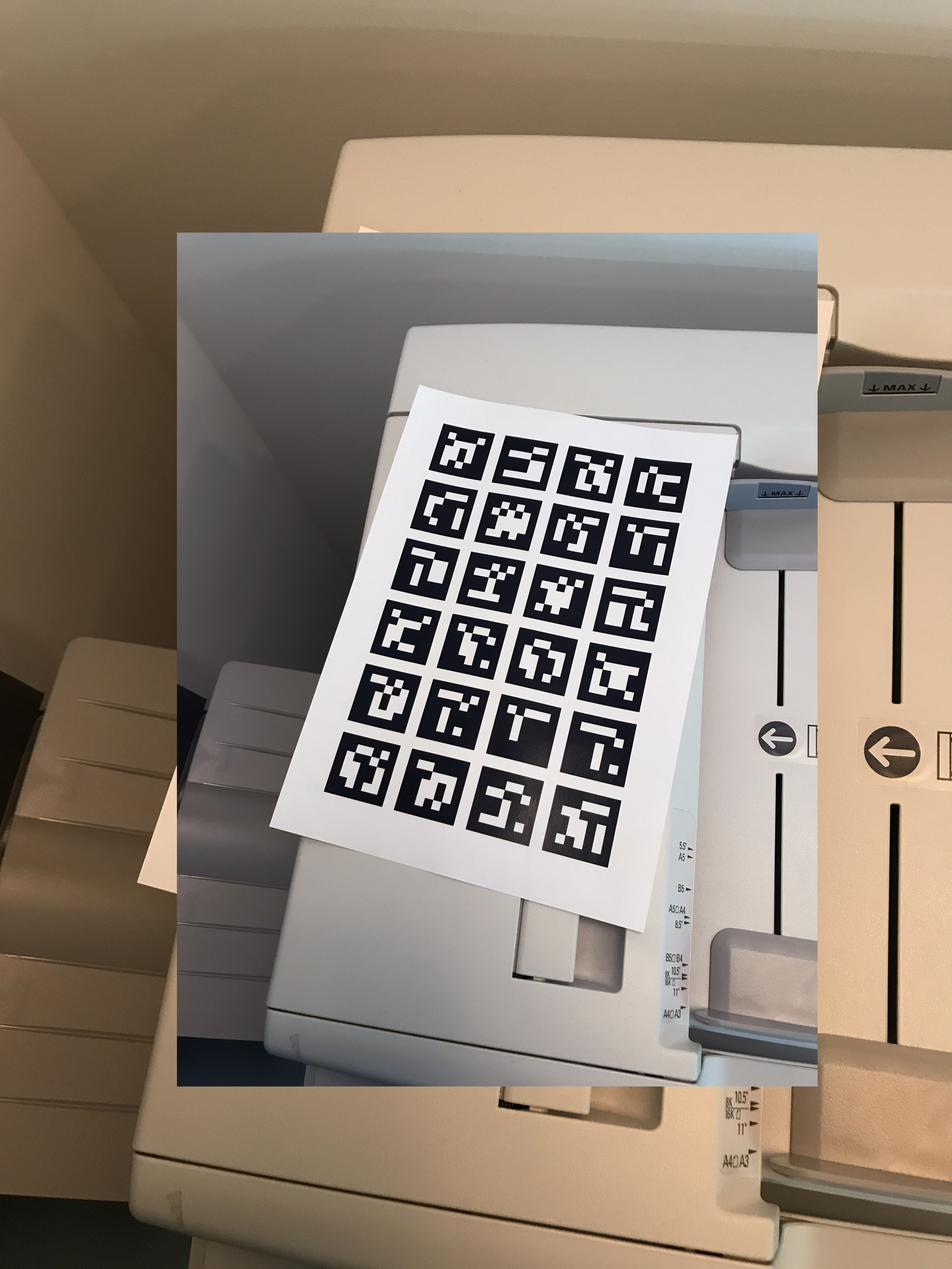
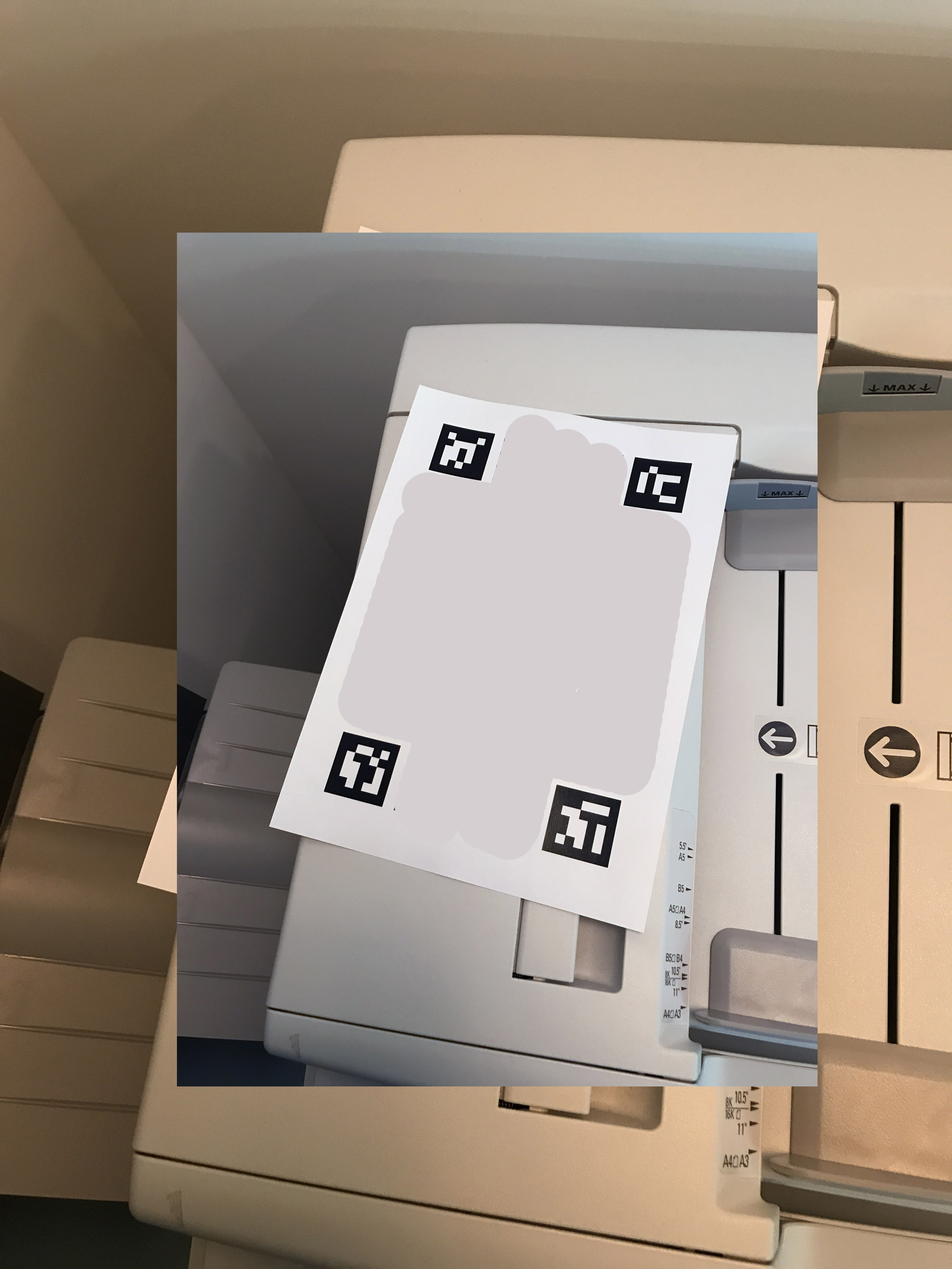
zero pixels

Changed region(s): [[0.373, 0.3125, 0.746, 0.6875]]

diff --git a/src/touchArea.cpp b/src/touchArea.cpp
@@ -7,9 +7,11 @@
 
 #include "touchArea.h"
 
-touchArea::touchArea() {
+touchArea::touchArea(bool testMode) {
+    _testMode = testMode;
+    
     zeroLevelPixels.allocate(WIDTH, HEIGHT, OF_IMAGE_GRAYSCALE);
-    zeroLevelPixels.clear();
+    //zeroLevelPixels.clear();
     
     brush.load("brush.png");
     brush.setImageType(OF_IMAGE_GRAYSCALE);
@@ -20,6 +22,15 @@ touchArea::touchArea() {
         ofClear(0, 0, 0, 255);
     }
     depthFbo.end();
+    
+    depthFboRaw.allocate(WIDTH, HEIGHT, GL_RGBA);
+    depthFboRaw.begin();
+    {
+        ofClear(0, 0, 0, 255);
+    }
+    depthFboRaw.end();
+    
+    // init border points with 0
     
     borderPoints.push_back(ofVec2f(0, 0));
     borderPoints.push_back(ofVec2f(0, 0));
@@ -34,28 +45,51 @@ touchArea::touchArea() {
     art.setup(camSize, camSize);
     boardImage.load("board/board.png"); // load board image to dispolay
     
-    // only for testing
-    fakeImage.load("board/test_image.jpg");
-    fakeImage.setImageType(OF_IMAGE_COLOR);
-    
-    // crop it!
-    if (fakeImage.getWidth() / fakeImage.getHeight() > WIDTH / (float) HEIGHT) {
-        float diff = fakeImage.getWidth() - fakeImage.getHeight() * WIDTH / (float) HEIGHT;
-        fakeImage.crop(diff / 2, 0, fakeImage.getWidth() - diff, fakeImage.getHeight());
+    // only for testing. image to recognize markers
+    if (_testMode) {
+        fakeImage.load("board/test_image.jpg");
+        fakeImage.setImageType(OF_IMAGE_COLOR);
+        
+        // crop it!
+        if (fakeImage.getWidth() / fakeImage.getHeight() > WIDTH / (float) HEIGHT) {
+            float diff = fakeImage.getWidth() - fakeImage.getHeight() * WIDTH / (float) HEIGHT;
+            fakeImage.crop(diff / 2, 0, fakeImage.getWidth() - diff, fakeImage.getHeight());
+        }
+        else {
+            float diff = fakeImage.getHeight() - fakeImage.getWidth() * HEIGHT / (float) WIDTH;
+            fakeImage.crop(0, diff / 2, fakeImage.getWidth(), fakeImage.getHeight() - diff);
+        }
+        fakeImage.resize(WIDTH, HEIGHT);
     }
-    else {
-        float diff = fakeImage.getHeight() - fakeImage.getWidth() * HEIGHT / (float) WIDTH;
-        fakeImage.crop(0, diff / 2, fakeImage.getWidth(), fakeImage.getHeight() - diff);
-    }
-    fakeImage.resize(WIDTH, HEIGHT);
 }
 
 ofImage & touchArea::getSensorImage() {
     return fakeImage;
 }
 
+void touchArea::updateZeroPixels() {
+    // update zero level from depth camera
+    
+    if (_testMode) {
+        // immitate some depth values. test
+        for (int i = 0; i < WIDTH; i++)
+            for (int j = 0; j < HEIGHT; j++)
+                zeroLevelPixels.setColor(i, j, ofColor(ofVec2f(i, j).distance(ofVec2f(0, 0)) * 100.0 / WIDTH));
+        zeroLevelPixels.update();
+        
+        // this is only for tests
+        depthFboRaw.begin();
+        {
+            ofDisableBlendMode();
+            zeroLevelPixels.draw(0, 0);
+        }
+        depthFboRaw.end();
+    }
+}
+
 void touchArea::recognizeBorders() {
-    //art.update(cam);
+    // recognize markers
+    /*
     art.ofxArtool5::GenericTracker::update(getSensorImage().getPixels());
     if (art.isFound()) {
         int n = art.getNumMarkers();
@@ -63,16 +97,19 @@ void touchArea::recognizeBorders() {
         for (int i = 0; i < 4; i++) {
             borderPoints[i] = ofVec2f(marker.vertex[i][0], marker.vertex[i][1]);
         }
+        for (int i = 0; i < art.getNumMarkers(); i++)
+            cout << art.getMarker(i).idPatt << " " << art.getMarker(i).id << "\n";
         /*
         borderPoints[0] = ofVec2f(p1[0], p1[1]);
         borderPoints[1] = ofVec2f(p2[0], p2[1]);
         borderPoints[2] = ofVec2f(p3[0], p3[1]);
         borderPoints[3] = ofVec2f(p4[0], p4[1]);
-        */
-        
-        // also setup zero level
-        zeroLevelPixels.clear();
+     
     }
+    */
+    
+    // update pixels
+    updateZeroPixels();
 }
 
 void touchArea::drawBorder(int x, int y) {
@@ -97,7 +134,22 @@ void touchArea::drawImage(int x, int y) {
 
 void touchArea::drawDepth(int x, int y) {
     ofSetColor(255, 255, 255, 200);
-    depthFbo.draw(x, y, WIDTH, HEIGHT);
+    depthFboRaw.draw(x, y);
+}
+
+void touchArea::updateDepth() {
+    // get depthFboRaw from camera
+    
+    // prepare depthRbo
+    depthFbo.begin();
+    {
+        ofDisableBlendMode();
+        depthFboRaw.draw(0, 0);
+        ofEnableBlendMode(OF_BLENDMODE_SUBTRACT);
+        zeroLevelPixels.draw(0, 0);
+        ofDisableBlendMode();
+    }
+    depthFbo.end();
 }
 
 ofFbo & touchArea::getDepth() {
@@ -117,19 +169,27 @@ void touchArea::setBorderPoint(int i, float x, float y) {
 }
 
 void touchArea::imitateTouch(int x, int y) {
-    depthFbo.begin();
+    depthFboRaw.begin();
     {
         ofClear(0, 0, 0, 255);
         ofSetColor(255);
+        zeroLevelPixels.draw(0, 0);
+        ofEnableBlendMode(OF_BLENDMODE_ADD);
         brush.draw(x - brush.getWidth(), y - brush.getHeight(), brush.getWidth() * 2, brush.getHeight() * 2);
+        ofDisableBlendMode();
     }
-    depthFbo.end();
+    depthFboRaw.end();
 }
 
 void touchArea::imitateRelease() {
-    depthFbo.begin();
+    depthFboRaw.begin();
     {
-        ofClear(0, 0, 0, 255);
+        ofDisableBlendMode();
+        zeroLevelPixels.draw(0, 0);
     }
-    depthFbo.end();
+    depthFboRaw.end();
+}
+
+void touchArea::update() {
+    updateDepth();
 }

diff --git a/src/touchArea.h b/src/touchArea.h
@@ -10,15 +10,21 @@
 
 #include "ofMain.h"
 #include "ofxARTPattern.h"
+#include "ofxARTGenericTracker.h"
 
 class touchArea {
 private:
+    bool _testMode;
+    
     vector<ofVec2f> borderPoints;
     
+    ofFbo depthFboRaw; // depth points
     ofFbo depthFbo; // depth points with substracted zero level
     
-    ofPixels zeroLevelPixels; // depth points of the canvas in default state
+    ofImage zeroLevelPixels; // depth points of the canvas in default state
     ofImage brush; // touch image for imitation
+    
+    float maxDepth = 50; // to cale the touch;
     
     //ofxAruco aruco;
     ofxArtool5::PatternTracker art;
@@ -28,12 +34,12 @@ private:
     
     ofImage & getSensorImage();
     
+    void updateDepth(); // get depth pixels from camera.
 public:
     const int WIDTH = 640;
     const int HEIGHT = 480;
-    const float MAX_DEPTH = .5;
     
-    touchArea();
+    touchArea(testMode = true);
     
     void recognizeBorders();
     
@@ -49,6 +55,9 @@ public:
     void imitateRelease();
     
     void setBorderPoint(int i, float x, float y);
+    void updateZeroPixels();
+    
+    void update();
 };
 
 #endif /* touchArea_hpp */

diff --git a/src/ofApp.cpp b/src/ofApp.cpp
@@ -22,6 +22,9 @@ void ofApp::setup(){
     touch.setBorderPoint(2, depthSettings.getValue("x3", 200), depthSettings.getValue("y3", 500));
     touch.setBorderPoint(3, depthSettings.getValue("x4", 100), depthSettings.getValue("y4", 500));
     
+    // get zero pixels in the very beginning
+    touch.updateZeroPixels();
+    
     proj.updateMapping();
     
     // gui
@@ -39,6 +42,7 @@ void ofApp::setup(){
 
 //--------------------------------------------------------------
 void ofApp::update(){
+    touch.update();
     proj.update();
 }
 
@@ -119,6 +123,9 @@ void ofApp::keyPressed(int key){
     
     if (calibraionMode && key == 'r')
         touch.recognizeBorders();
+    
+    if (calibraionMode && key == 'z')
+        touch.updateZeroPixels();
 }
 
 //--------------------------------------------------------------
